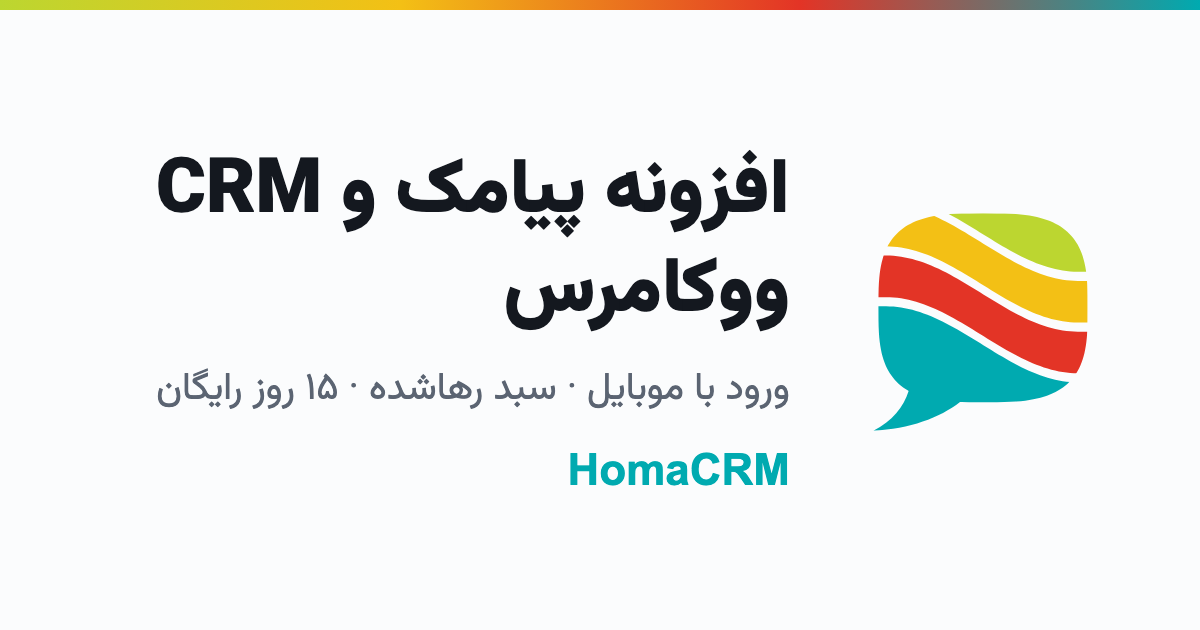
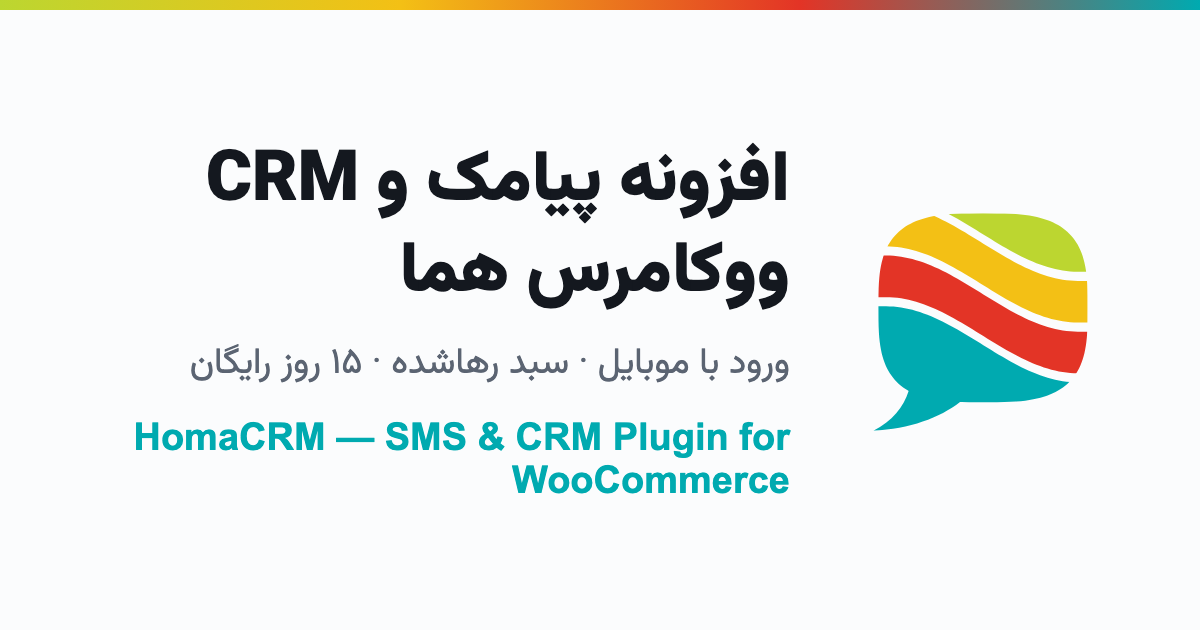
docs(landing): brand name Homa in the page title and H1, English subtitle, refreshed share image

Changed region(s): [[0.1233, 0.2111, 0.6783, 0.5429], [0.0925, 0.5429, 0.6783, 0.7841]]

diff --git a/landing/index.html b/landing/index.html
@@ -3,8 +3,8 @@
 <head>
 <meta charset="utf-8">
 <meta name="viewport" content="width=device-width,initial-scale=1">
-<title>افزونه پیامک و CRM ووکامرس | ورود با موبایل | HomaCRM</title>
-<meta name="description" content="افزونه رسمی HomaCRM برای وردپرس و ووکامرس: پیامک خودکار سفارش، ورود و ثبتنام با موبایل، یادآوری سبد رهاشده و CRM. نصب رایگان، ۱۵ روز آزمایشی و ۱۰۰ هزار تومان شارژ اولیهٔ پیامک رایگان.">
+<title>افزونه پیامک و CRM ووکامرس هما | HomaCRM</title>
+<meta name="description" content="افزونه پیامک و CRM ووکامرس هما (HomaCRM): افزونه رسمی HomaCRM برای وردپرس و ووکامرس: پیامک خودکار سفارش، ورود و ثبتنام با موبایل، یادآوری سبد رهاشده و CRM. نصب رایگان، ۱۵ روز آزمایشی و ۱۰۰ هزار تومان شارژ اولیهٔ پیامک رایگان.">
 <meta name="robots" content="index,follow,max-image-preview:large,max-snippet:-1">
 <link rel="canonical" href="https://plugin.homacrm.com/">
 <link rel="alternate" hreflang="fa-IR" href="https://plugin.homacrm.com/">
@@ -15,13 +15,13 @@
 <meta property="og:type" content="website">
 <meta property="og:site_name" content="HomaCRM">
 <meta property="og:locale" content="fa_IR">
-<meta property="og:title" content="افزونه پیامک و CRM ووکامرس | HomaCRM">
+<meta property="og:title" content="افزونه پیامک و CRM ووکامرس هما | HomaCRM">
 <meta property="og:description" content="پیامک سفارش، ورود با موبایل، سبد رهاشده و CRM برای فروشگاه ووکامرسی. ۱۵ روز آزمایشی و ۱۰۰ هزار تومان شارژ اولیه رایگان.">
 <meta property="og:url" content="https://plugin.homacrm.com/">
 <meta property="og:image" content="https://plugin.homacrm.com/og.png">
 <meta property="og:image:width" content="1200"><meta property="og:image:height" content="630">
 <meta name="twitter:card" content="summary_large_image">
-<meta name="twitter:title" content="افزونه پیامک و CRM ووکامرس | HomaCRM">
+<meta name="twitter:title" content="افزونه پیامک و CRM ووکامرس هما | HomaCRM">
 <meta name="twitter:description" content="پیامک سفارش، ورود با موبایل، سبد رهاشده و CRM برای ووکامرس. نصب رایگان.">
 <meta name="twitter:image" content="https://plugin.homacrm.com/og.png">
 <link rel="preconnect" href="https://cdn.jsdelivr.net" crossorigin>
@@ -31,7 +31,7 @@
 {"@context":"https://schema.org","@graph":[
 {"@type":"Organization","@id":"https://homacrm.com/#org","name":"HomaCRM","url":"https://homacrm.com/","logo":"https://plugin.homacrm.com/mark.svg","sameAs":["https://github.com/Homa-OS/Plugins-HomaCRM"],"contactPoint":{"@type":"ContactPoint","contactType":"customer support","email":"support@homacrm.com","availableLanguage":["fa","en"]}},
 {"@type":"WebSite","@id":"https://plugin.homacrm.com/#site","url":"https://plugin.homacrm.com/","name":"افزونه وردپرس HomaCRM","inLanguage":"fa-IR","publisher":{"@id":"https://homacrm.com/#org"}},
-{"@type":"SoftwareApplication","name":"افزونه HomaCRM برای وردپرس و ووکامرس","applicationCategory":"BusinessApplication","operatingSystem":"WordPress 5.2+","softwareVersion":"{{VERSION}}","downloadUrl":"https://plugin.homacrm.com/homacrm-{{VERSION}}.zip","url":"https://plugin.homacrm.com/","image":"https://plugin.homacrm.com/og.png","description":"افزونه رسمی HomaCRM: پیامک خودکار سفارش، ورود و ثبتنام با موبایل، یادآوری سبد رهاشده و CRM برای ووکامرس.","inLanguage":"fa-IR","offers":{"@type":"Offer","price":"0","priceCurrency":"IRR","availability":"https://schema.org/InStock"},"publisher":{"@id":"https://homacrm.com/#org"}},
+{"@type":"SoftwareApplication","name":"افزونه پیامک و CRM ووکامرس هما (HomaCRM)","alternateName":"HomaCRM — SMS & CRM Plugin for WooCommerce","applicationCategory":"BusinessApplication","operatingSystem":"WordPress 5.2+","softwareVersion":"{{VERSION}}","downloadUrl":"https://plugin.homacrm.com/homacrm-{{VERSION}}.zip","url":"https://plugin.homacrm.com/","image":"https://plugin.homacrm.com/og.png","description":"افزونه رسمی HomaCRM: پیامک خودکار سفارش، ورود و ثبتنام با موبایل، یادآوری سبد رهاشده و CRM برای ووکامرس.","inLanguage":"fa-IR","offers":{"@type":"Offer","price":"0","priceCurrency":"IRR","availability":"https://schema.org/InStock"},"publisher":{"@id":"https://homacrm.com/#org"}},
 {"@type":"FAQPage","mainEntity":[
 {"@type":"Question","name":"افزونه پیامک ووکامرس هما چه کاری میکند؟","acceptedAnswer":{"@type":"Answer","text":"پیامک خودکار ثبت، پرداخت و ارسال سفارش را میفرستد، ورود و ثبتنام با کد پیامکی را فعال میکند، سبد رهاشده را یادآوری میکند و مشتریها و سفارشها را در CRM هما ثبت میکند."}},
 {"@type":"Question","name":"توکن افزونه را از کجا بگیرم؟","acceptedAnswer":{"@type":"Answer","text":"بعد از نصب، در منوی HomaCRM دکمهٔ ثبتنام رایگان را بزنید؛ با شمارهٔ موبایل ثبتنام میکنید، توکن را کپی میکنید و در افزونه میچسبانید."}},
@@ -58,6 +58,7 @@ main{flex:1}
 .hero{text-align:center;padding:clamp(40px,9vw,92px) 0 clamp(28px,5vw,48px)}
 h1{font-size:clamp(28px,6vw,46px);line-height:1.4;margin:0 0 14px;font-weight:900;text-wrap:balance}
 h1 em{font-style:normal;color:var(--teal)}
+.en{margin:-4px 0 14px;font:600 clamp(14px,2.4vw,17px) Arial,Helvetica,sans-serif;color:var(--teal-d);letter-spacing:.2px}
 .lead{font-size:clamp(15px,2.4vw,18px);color:var(--muted);margin:0 auto 26px;max-width:560px;text-wrap:balance}
 .btn{display:inline-flex;align-items:center;justify-content:center;gap:8px;background:var(--teal);color:#fff;font-weight:800;font-size:18px;padding:15px 34px;border-radius:14px;text-decoration:none;box-shadow:0 8px 22px rgba(0,170,176,.28);transition:background .15s,transform .15s}
 .btn:hover{background:var(--teal-d);transform:translateY(-1px)}
@@ -93,7 +94,8 @@ footer nav{gap:14px;font-size:13px}
 
 <main class="w">
   <div class="hero">
-    <h1>افزونه <em>پیامک و CRM</em> ووکامرس</h1>
+    <h1>افزونه <em>پیامک و CRM</em> ووکامرس هما</h1>
+    <p class="en" lang="en" dir="ltr">HomaCRM — SMS &amp; CRM Plugin for WooCommerce</p>
     <p class="lead">ورود با موبایل، پیامک خودکار سفارش و یادآوری سبد رهاشده، با ثبت همهٔ مشتریها در CRM. فقط با یک توکن.</p>
     <a class="btn" id="dl" href="/homacrm-{{VERSION}}.zip" download="homacrm-{{VERSION}}.zip" target="_blank" rel="noopener">نصب رایگان افزونه</a>
     <p class="meta"><span>۱۵ روز آزمایشی رایگان</span><span>۱۰۰ هزار تومان شارژ اولیه</span><span>توکن و نصب رایگان</span><span class="ltr">v{{VERSION}}</span></p>
